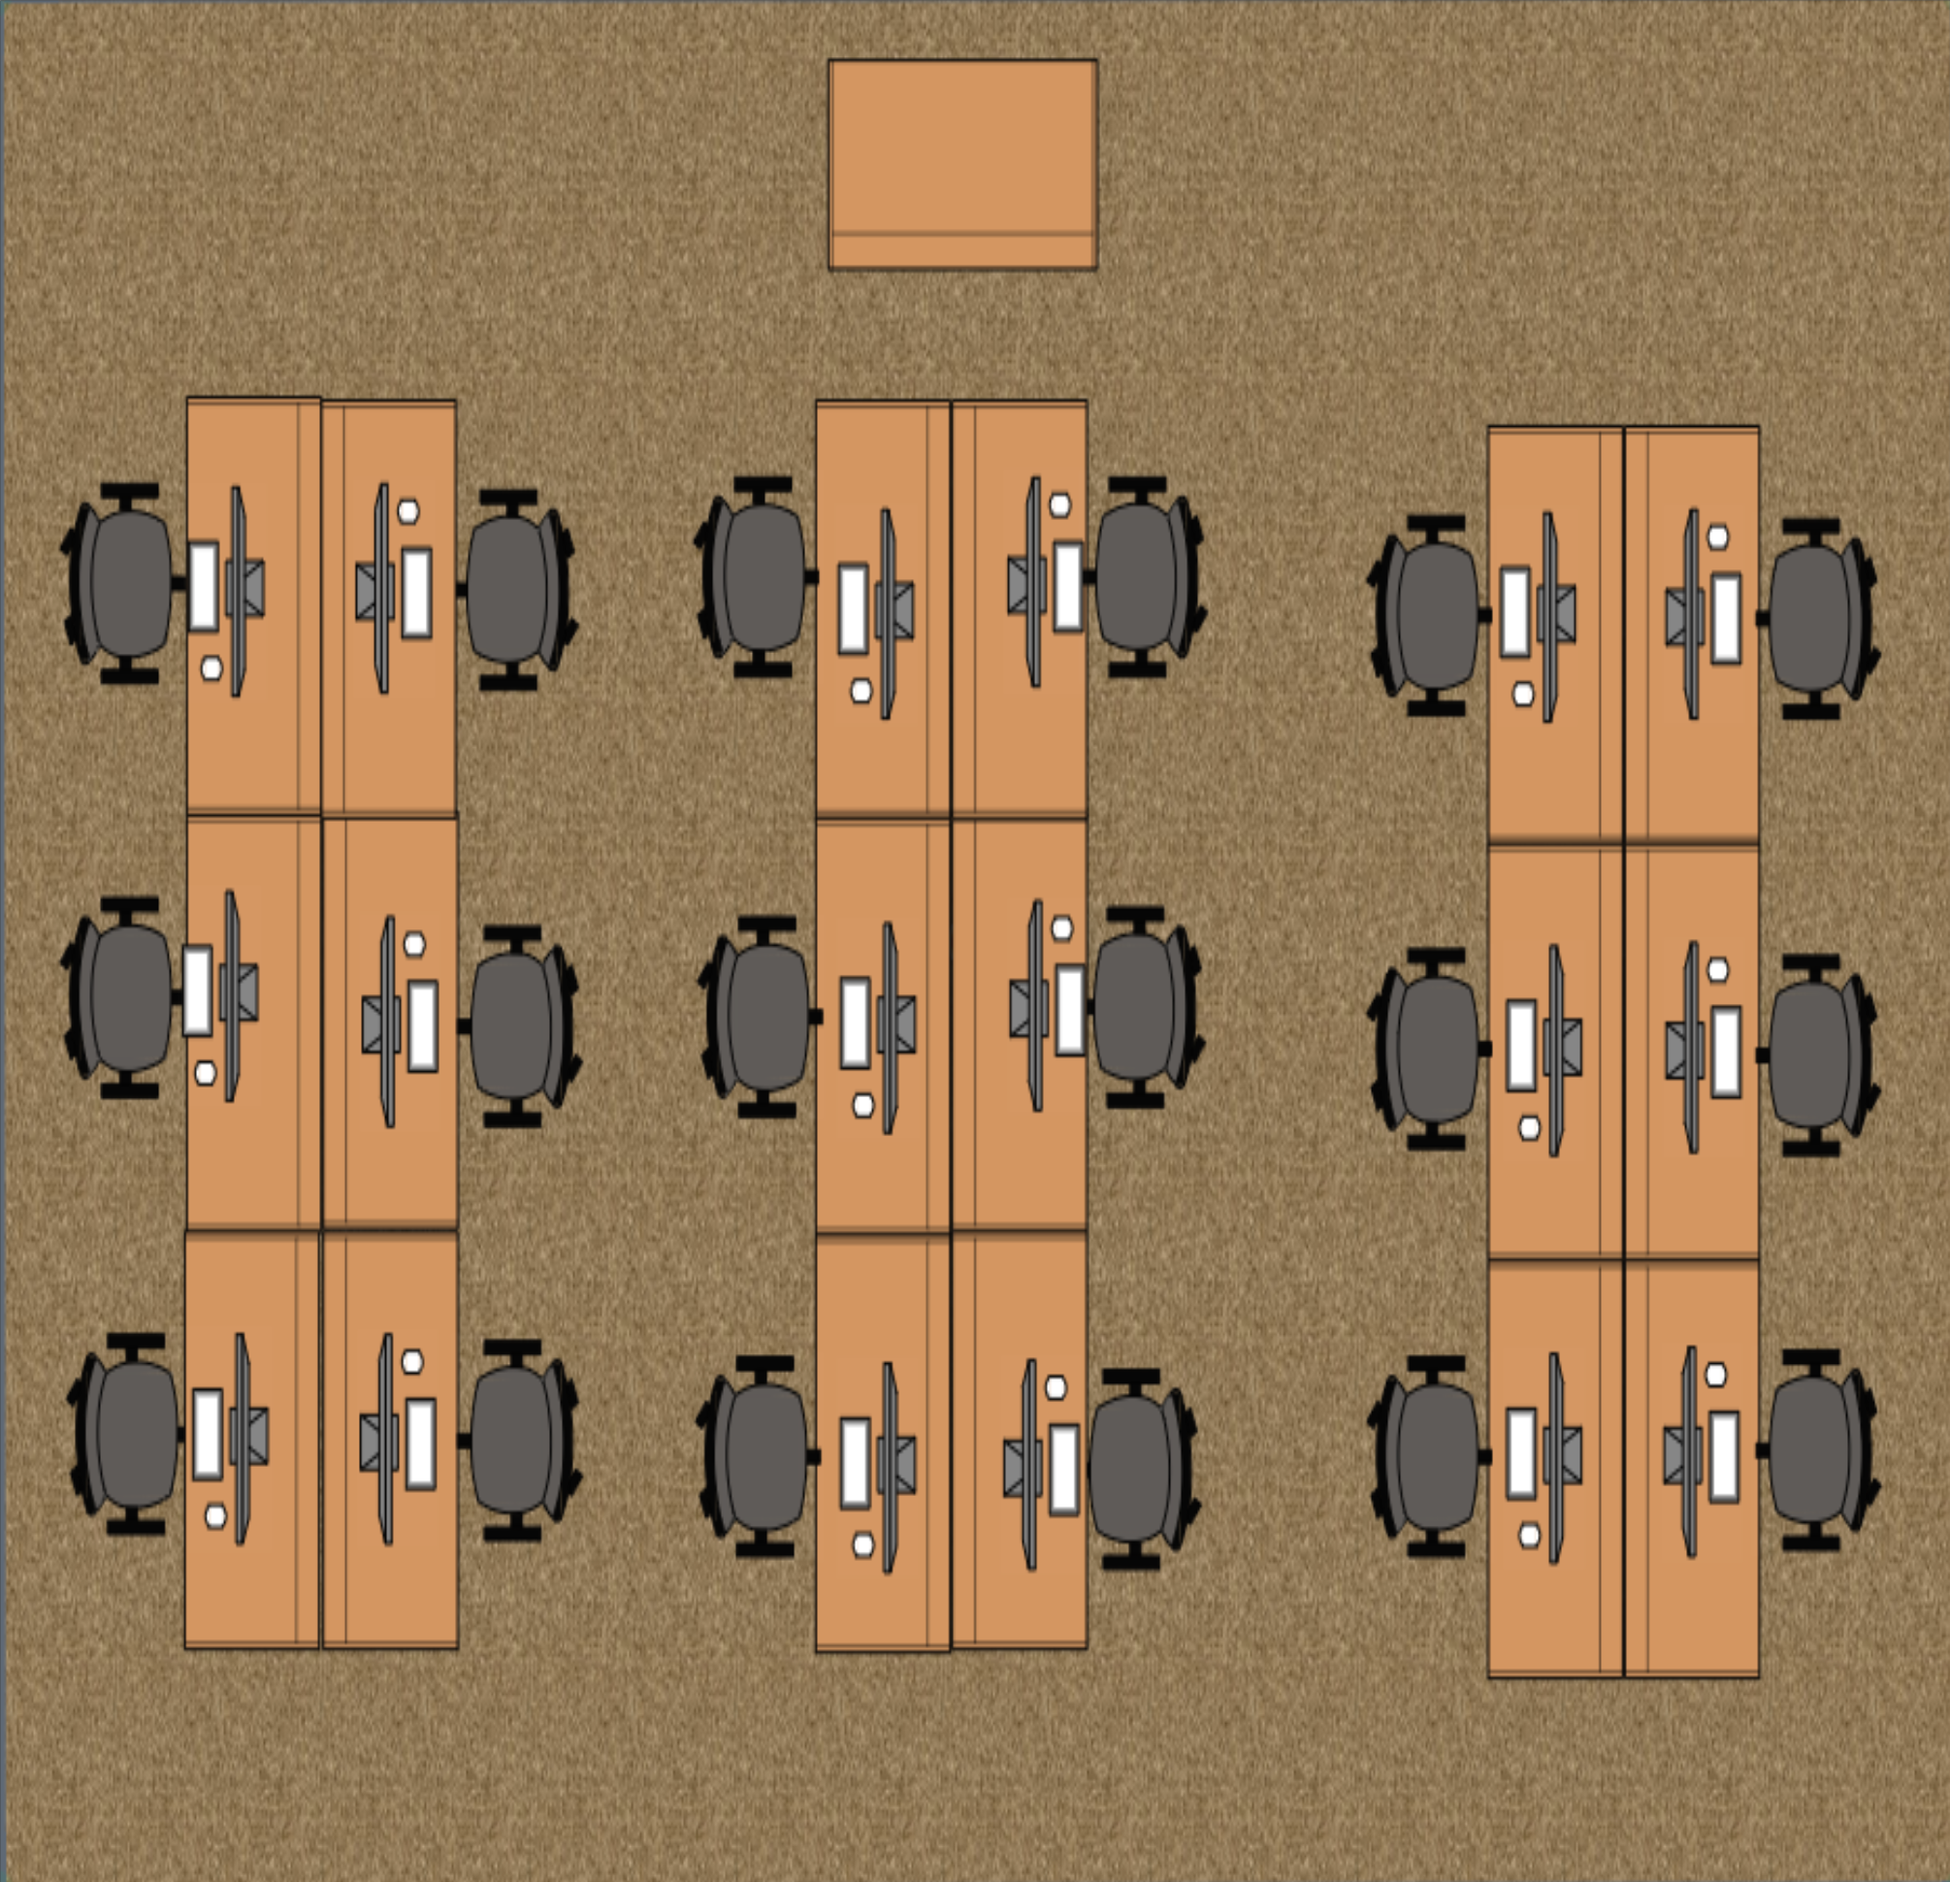
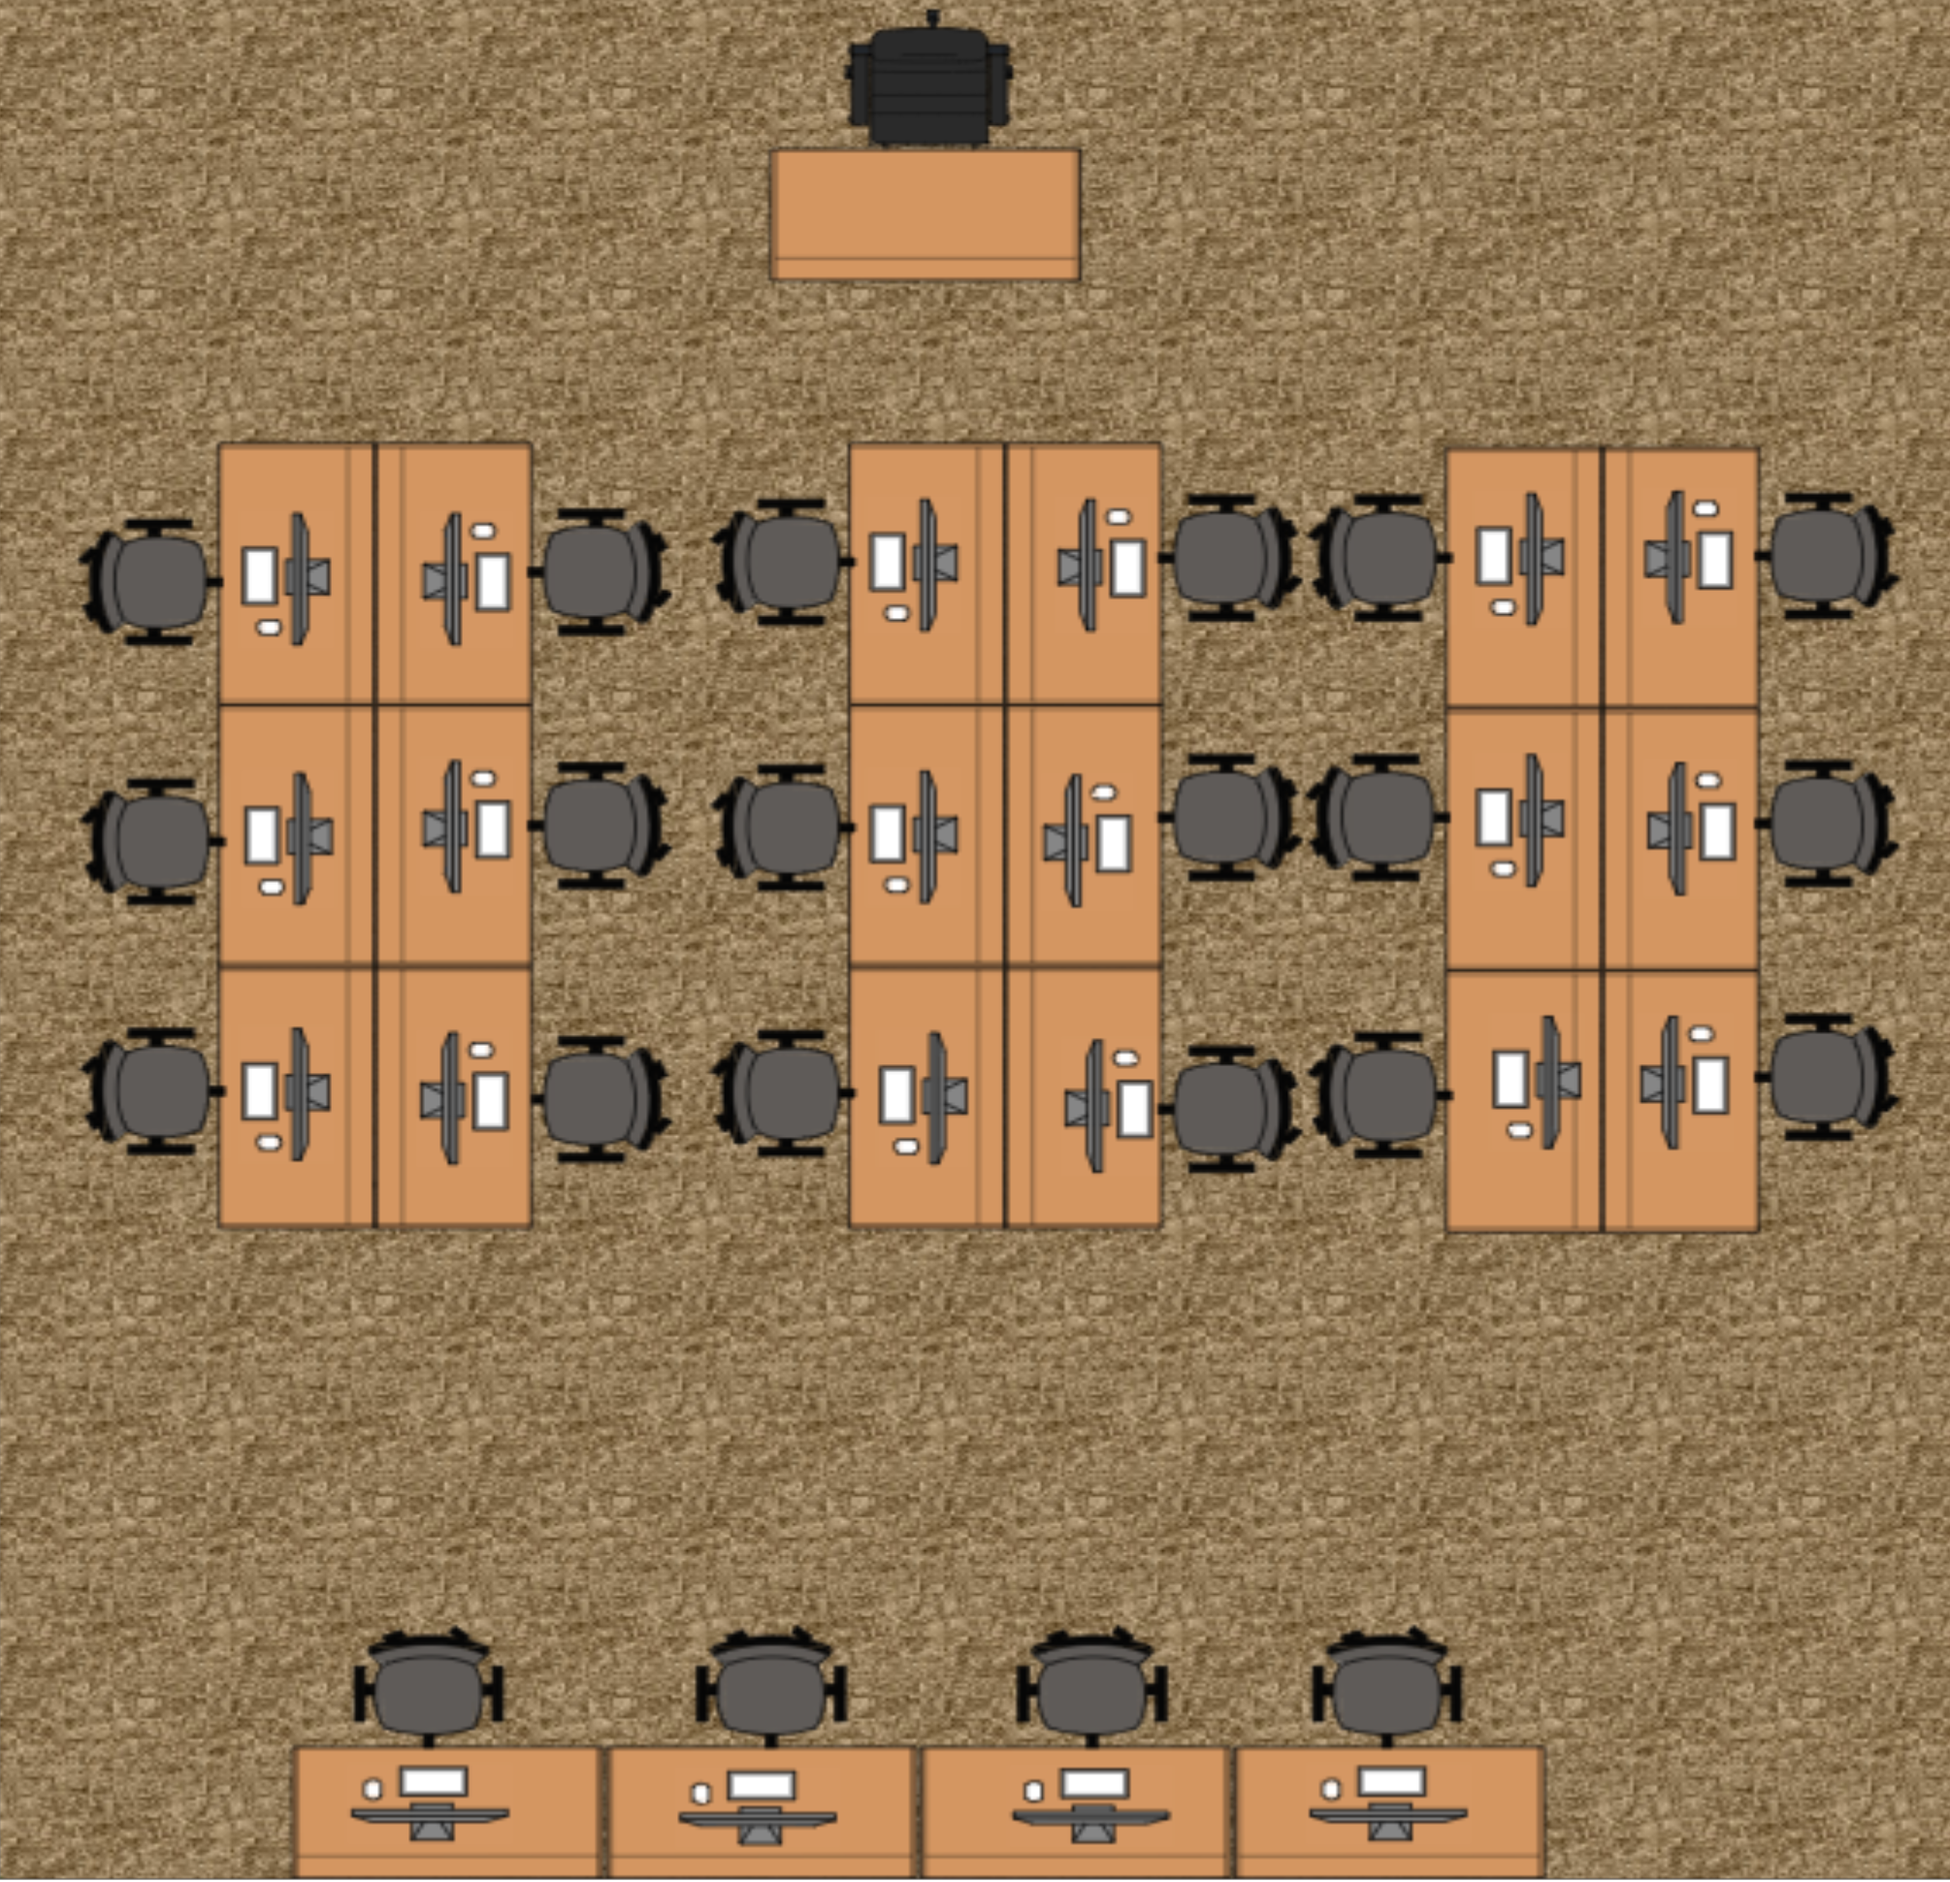
new map pics added

diff --git a/map.php b/map.php
@@ -204,7 +204,7 @@ session_start();
                 <path id="NEXUS" class="allPaths" d="M878.5 486.5 H1079.5 V680.5 H878.5 Z" fill="#CDC1FF" stroke="black" />
 
                 <!-- Inspire / Robotics -->
-                <image href="img/Lecture_Room.png" class= map_photo x="878.5" y="267.5" width="201" height="218" opacity="1" />
+                <image href="img/Robotics.png" class= map_photo x="878.5" y="267.5" width="201" height="218" opacity="1" />
                 <path id="INSPIRE / ROBOTICS" class="allPaths" d="M878.5 267.5 H1079.5 V485.5 H878.5 Z" fill="#A594F9" stroke="black" />
 
                 <!-- Simulation Room -->
@@ -346,15 +346,15 @@ session_start();
                 <path id="CHEMISTRY" class="allPaths" d="M880.5,0.5 h201 v123 h-201 z" fill="#86A789" stroke="black" />
                 
                 <!-- Microbiology -->
-                <image href="img/Lecture_Room.png" class= map_photo x="667.5" y="0.5" width="212" height="123" opacity="1" />
+                <image href="img/Micro-2ndfloor.png" class= map_photo x="667.5" y="0.5" width="212" height="123" opacity="1" />
                 <path id="MICROBIOLOGY" class="allPaths" d="M667.5,0.5 h212 v123 h-212 z" fill="#739072" stroke="black" />
                 
                 <!-- Physics -->
-                <image href="img/Lecture_Room.png" class= map_photo x="459.5" y="0.5" width="207" height="123" opacity="1" />
+                <image href="img/Physics-2ndfloor.png" class= map_photo x="459.5" y="0.5" width="207" height="123" opacity="1" />
                 <path id="PHYSICS" class="allPaths" d="M459.5,0.5 h207 v123 h-207 z" fill="#4F6F52" stroke="black" />
                 
                 <!-- Anatomy -->
-                <image href="img/Lecture_Room.png" class= map_photo x="210.5" y="0.5" width="248" height="123" opacity="1" />
+                <image href="img/Anatomy-2ndfloor.png" class= map_photo x="210.5" y="0.5" width="248" height="123" opacity="1" />
                 <path id="ANATOMY" class="allPaths" d="M210.5,0.5 h248 v123 h-248 z" fill="#3F6142" stroke="black" />
                 
                 <!-- Stairs 2 -->
